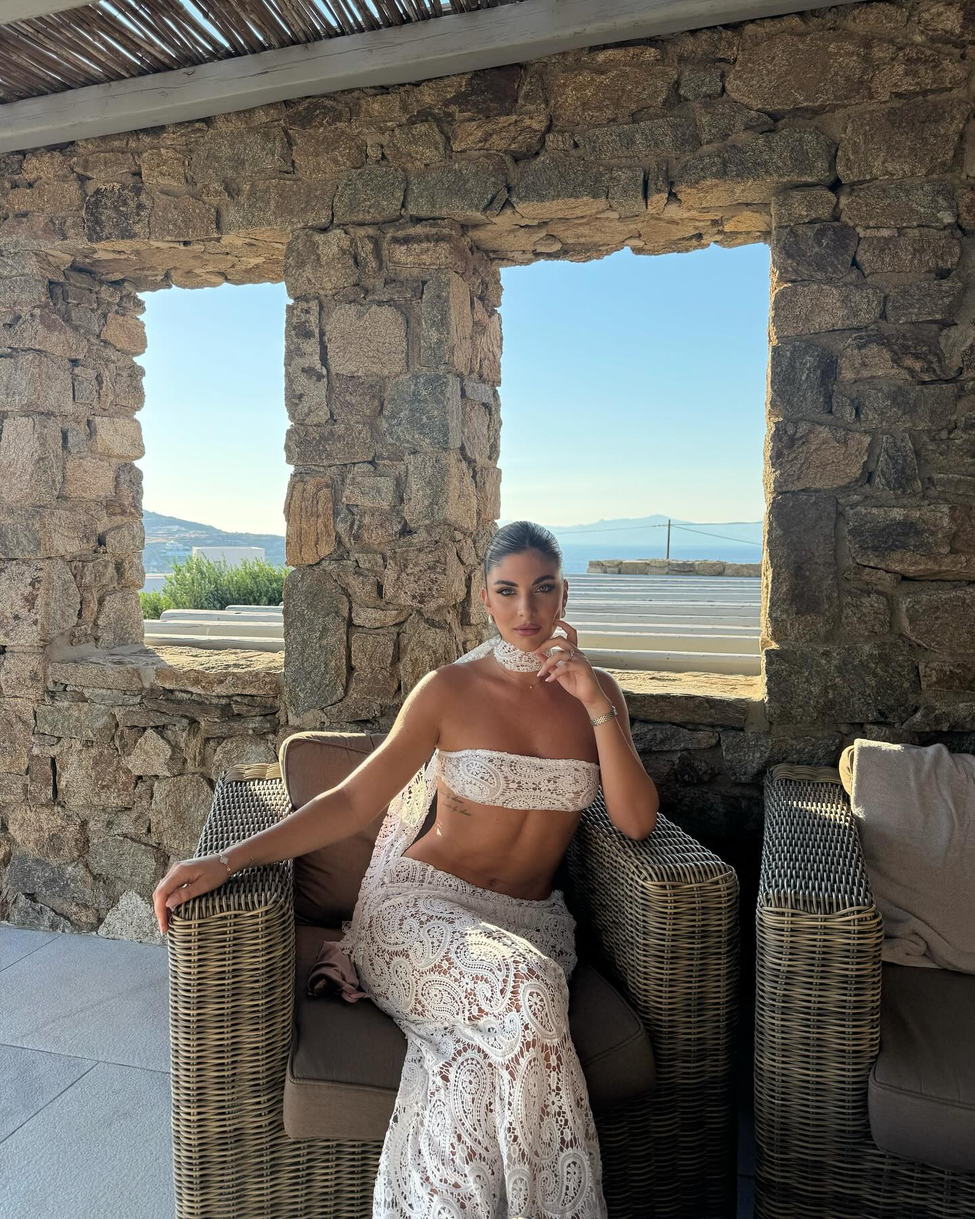
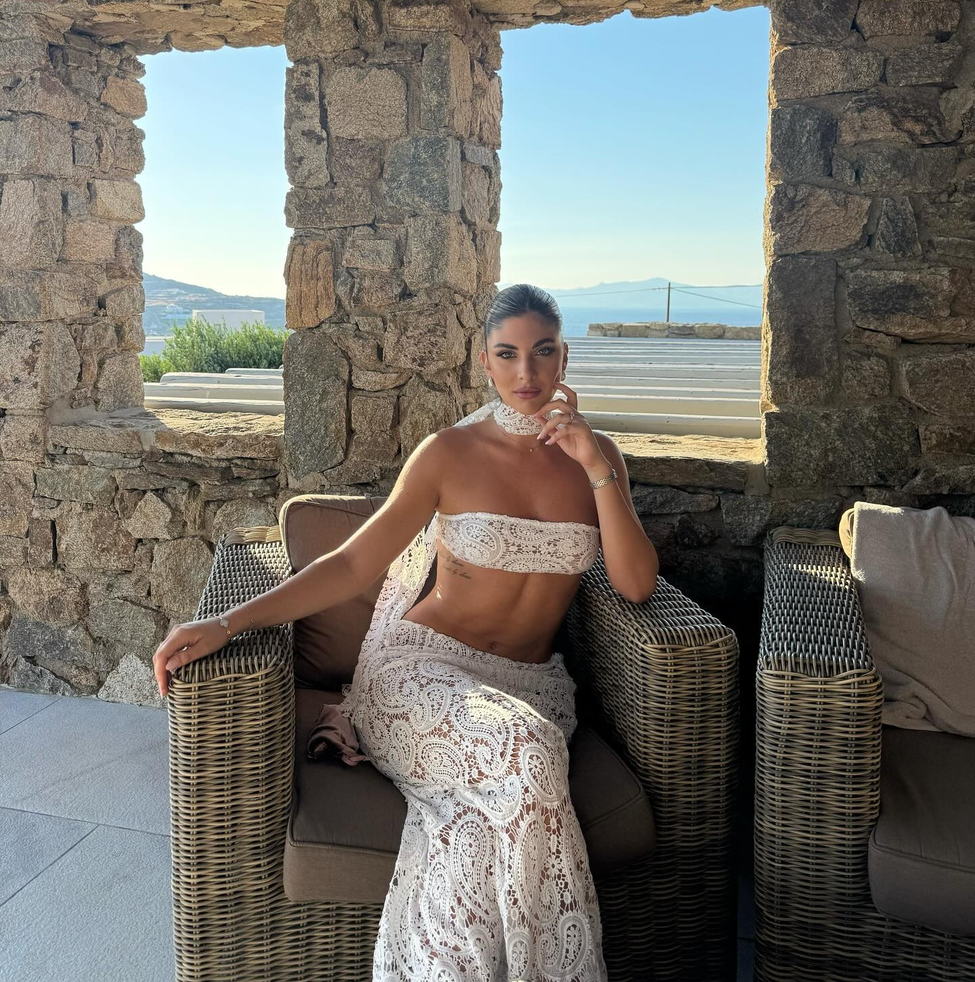
Crop hero image - remove top 350px for tighter framing

diff --git a/components/Hero.tsx b/components/Hero.tsx
@@ -90,7 +90,7 @@ export default function Hero() {
                 src="/images/alessia/hero-mykonos.jpg"
                 alt="Alessia Forcellati"
                 fill
-                className="object-cover object-[center_35%]"
+                className="object-cover"
                 priority
               />
             </div>
